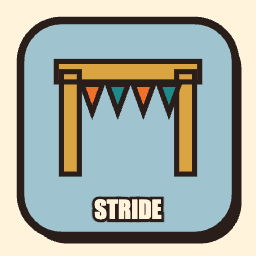
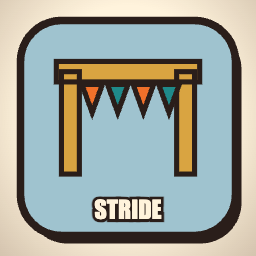
Re-capture the store art with the new look; the cover is back over the mud stones

diff --git a/src/poster.js b/src/poster.js
@@ -55,7 +55,7 @@ function frame(gfx, run, w, dtSteps = 2) {
 const SCENES = {
   // The cover: the four-colour walker mid-stride over stepping stones, cargo wobbling, dust up.
   async thumb1(gfx) {
-    const { run, sim } = playedRun(gfx, { kind: 'expedition', biome: 0, index: 2 }, 18);
+    const { run, sim } = playedRun(gfx, { kind: 'expedition', biome: 0, index: 2 }, 11); // mid-way over the mud stones
     const w = sim.w;
     // one leg in the air, cargo leaning: a stride caught mid-step
     const l = w.legs[1];
